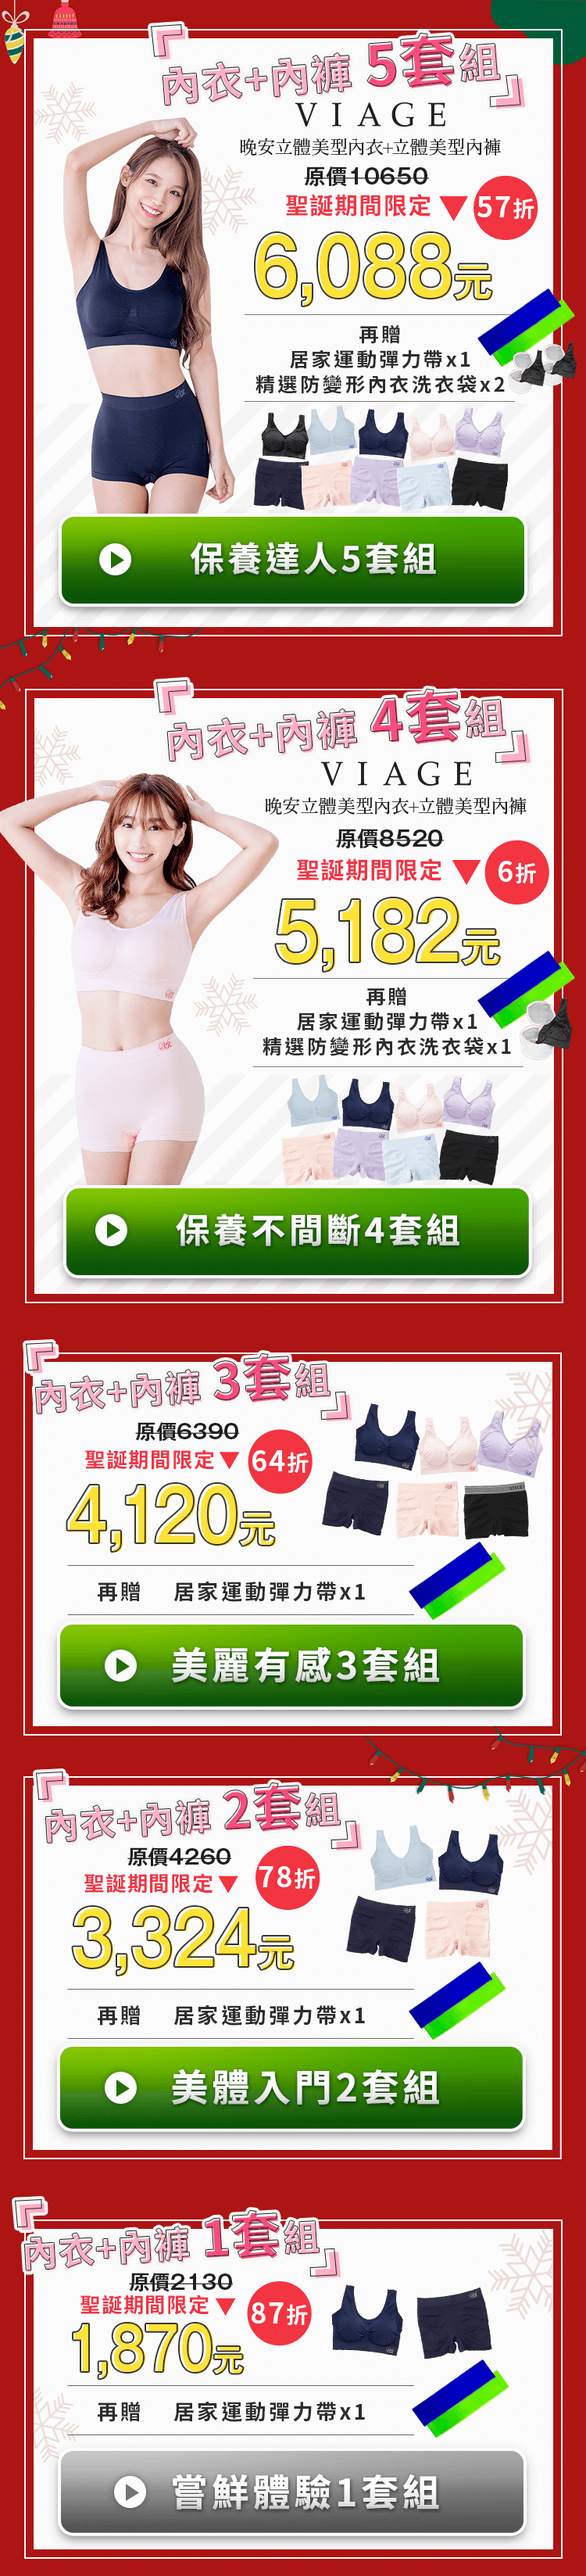
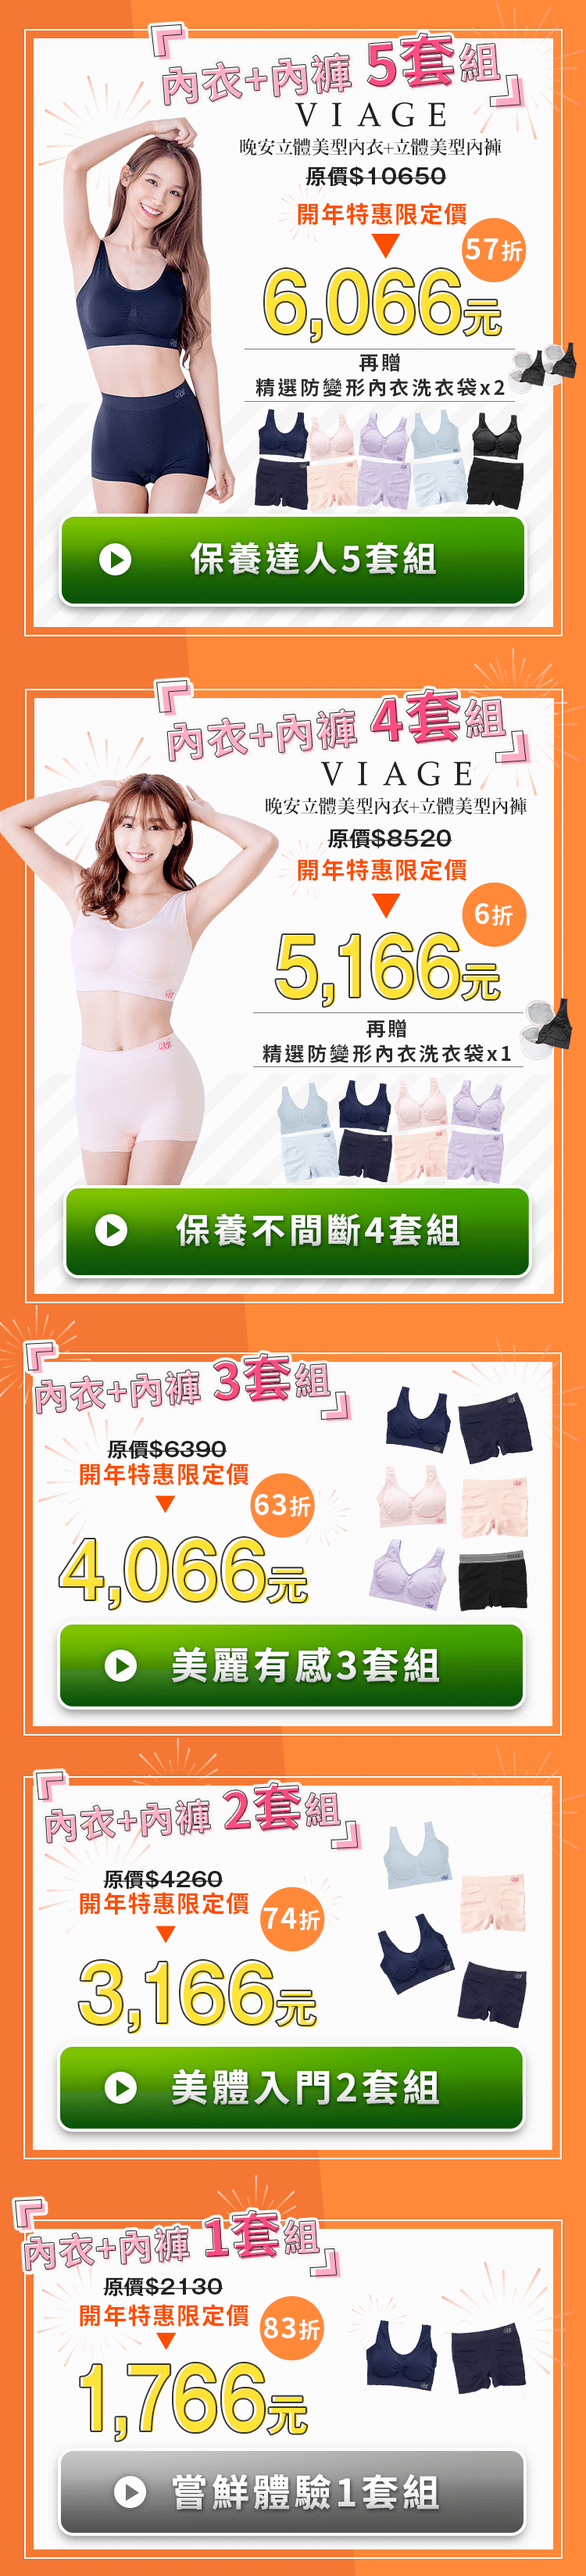
20211230_new year update

diff --git a/index.html b/index.html
@@ -2,7 +2,7 @@
 <html>
 
 <head>
-    <title>Viage聖誕年終特惠🎄期間限定折扣低至57折！成套保養一次到位👙</title>
+    <title>2022開年慶🎉Happy New Viage｜老顧客獨享｜優惠低至57折！成套保養一次到位👙</title>
     <meta name="Description" content="老顧客優惠輕鬆維持美胸保養！日本夜間育乳術，告別外擴、下垂，立體有感好胸型！白天穿鋼圈內衣，運動時穿運動內衣，睡覺時怎麼能放任胸部走山7~8小時？">
     <meta name="keywords" content="viage,viage內衣,晚安內衣,夜晚美胸,Viage晚安立體美型內衣">
     <!-- FB-->
